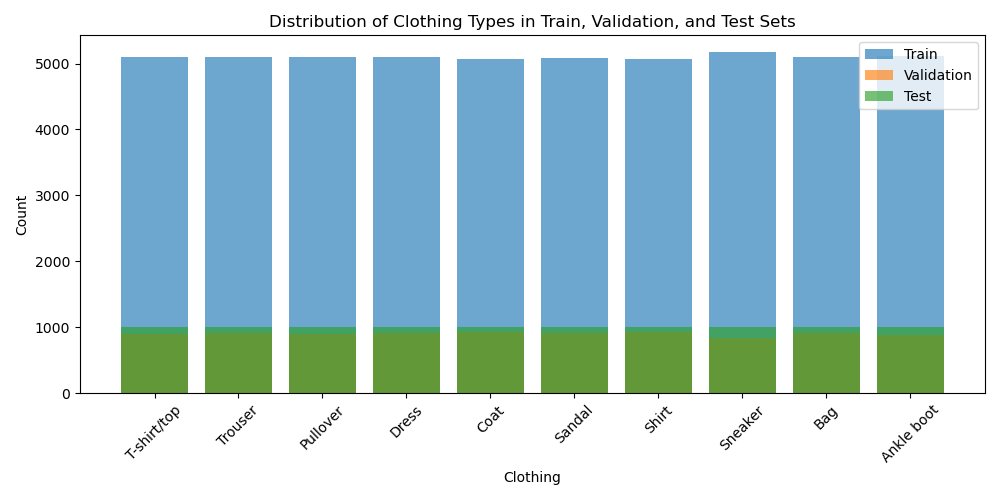
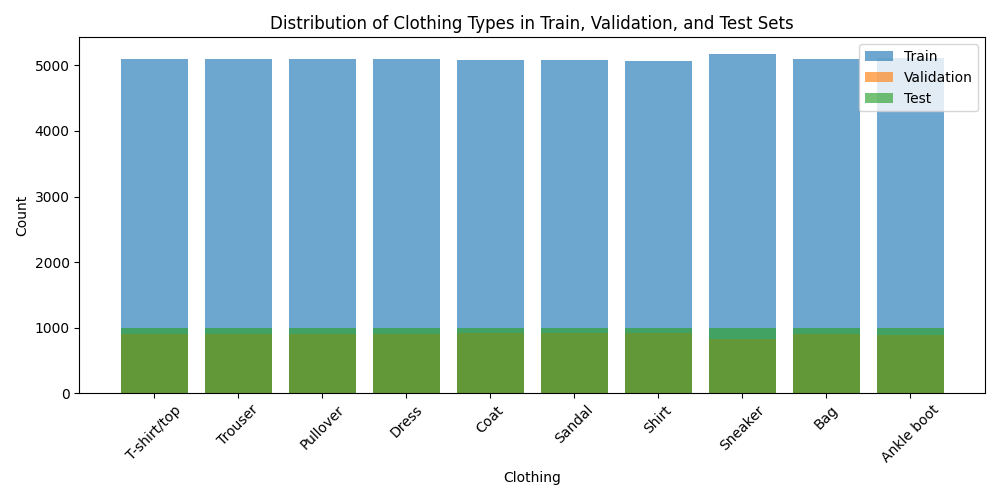
added CNN

diff --git a/models/cnn.py b/models/cnn.py
@@ -1,0 +1,39 @@
+from tensorflow.keras.models import Sequential
+from tensorflow.keras.layers import Conv2D
+from tensorflow.keras.layers import MaxPooling2D
+from tensorflow.keras.layers import Flatten
+from tensorflow.keras.layers import Dense
+from tensorflow.keras.layers import Dropout
+
+class CNN:
+    def __init__(self):
+        self.classifier = Sequential([
+            Conv2D(32, (3,3), activation='relu', input_shape=(28,28,1)),
+            MaxPooling2D((2,2)),
+            Conv2D(64, (3,3), activation='relu'),
+            MaxPooling2D((2,2)),
+            Flatten(),
+            Dense(128, activation='relu'),
+            Dropout(0.5),
+            Dense(10, activation='softmax')
+        ])
+        
+        self.classifier.compile(
+            optimizer='adam',
+            loss='sparse_categorical_crossentropy',
+            metrics=['accuracy']
+        )
+
+    def fit(self, X, y):
+        self.history = self.classifier.fit(
+            X,
+            y,
+            epochs=10,
+            batch_size=64,
+            validation_split=0.1,
+            verbose=1
+        )
+
+    def predict(self, X):
+        probs = self.classifier.predict(X)
+        return probs.argmax(axis=1)
